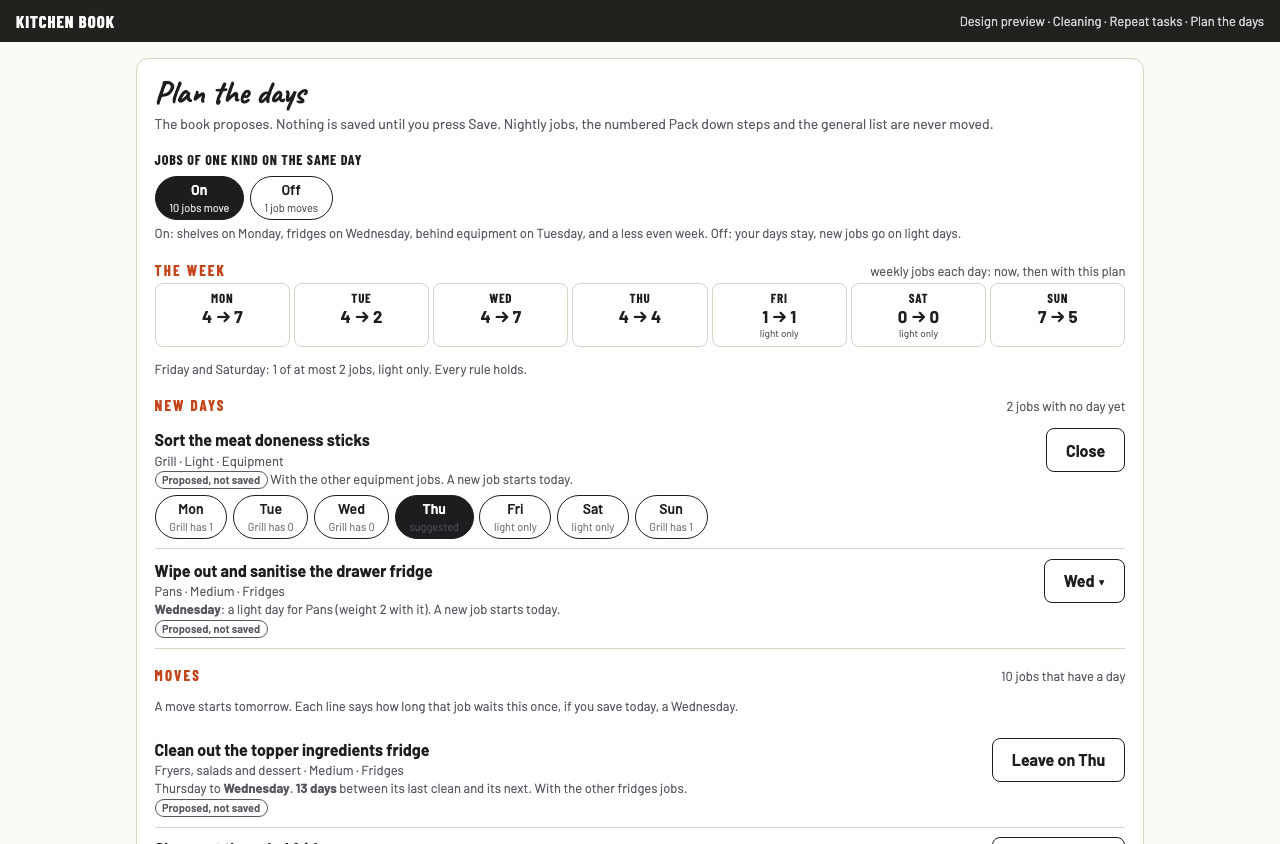
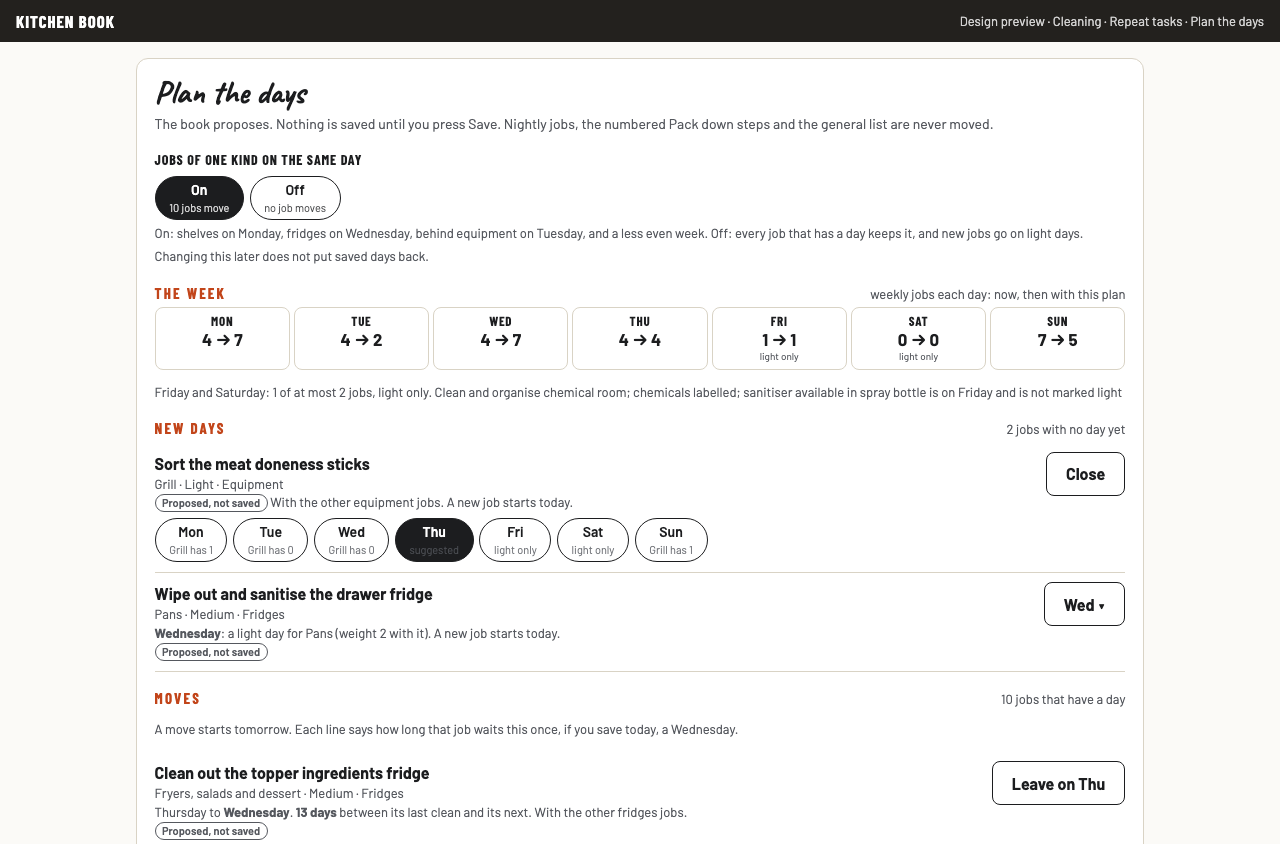
Cleaning tracking and planning the days: round 2, the mixes and the recommendation
Round 2: the list of changes first for planning (4 of 6), by job first for
tracking (5 of 6). The head chef made a missed job the section's problem.
Two mixes, a focused follow-up by three reviewers, the planner's fixes
(19 node checks) and the recommendation, in the brief.

diff --git a/docs/cleaning-tracking-options/previews/p-mix.html b/docs/cleaning-tracking-options/previews/p-mix.html
@@ -1,2 +1,2 @@
 <!doctype html>
-<html lang="en-AU"><head><meta charset="utf-8"><meta name="viewport" content="width=device-width,initial-scale=1"><title>The mix: plan the days</title><link rel="stylesheet" href="../../../css/app.css"><link rel="stylesheet" href="preview.css"></head><body class="pv"><div class="pv-bar"><span>Kitchen Book</span><small>Design preview · Cleaning · Repeat tasks · Plan the days</small></div><main class="pv-page"><section class="pv-card"><h1 class="pv-title">Plan the days</h1><p class="pv-sub">The book proposes. Nothing is saved until you press Save. Nightly jobs, the numbered Pack down steps and the general list are never moved.</p><div class="pv-field"><span class="label">Jobs of one kind on the same day</span><div class="pv-chips chips"><button class="chip" aria-pressed="true">On<small>10 jobs move</small></button><button class="chip" aria-pressed="false">Off<small>1 job moves</small></button></div><span class="hint">On: shelves on Monday, fridges on Wednesday, behind equipment on Tuesday, and a less even week. Off: your days stay, new jobs go on light days.</span></div><h2 class="pv-h">The week <span>weekly jobs each day: now, then with this plan</span></h2><div class="pv-strip"><div><b>Mon</b><span>4 → 7</span></div><div><b>Tue</b><span>4 → 2</span></div><div><b>Wed</b><span>4 → 7</span></div><div><b>Thu</b><span>4 → 4</span></div><div><b>Fri</b><span>1 → 1</span><small>light only</small></div><div><b>Sat</b><span>0 → 0</span><small>light only</small></div><div><b>Sun</b><span>7 → 5</span></div></div><p class="pv-note">Friday and Saturday: 1 of at most 2 jobs, light only. Every rule holds.</p><h2 class="pv-h">New days <span>2 jobs with no day yet</span></h2><div class="pv-row"><div><b>Sort the meat doneness sticks</b><small>Grill · Light · Equipment</small><small><span class="pv-tag">Proposed, not saved</span> With the other equipment jobs. A new job starts today.</small><div class="pv-chips chips"><button class="chip" aria-pressed="false">Mon<small>Grill has 1</small></button><button class="chip" aria-pressed="false">Tue<small>Grill has 0</small></button><button class="chip" aria-pressed="false">Wed<small>Grill has 0</small></button><button class="chip" aria-pressed="true">Thu<small>suggested</small></button><button class="chip" aria-pressed="false">Fri<small>light only</small></button><button class="chip" aria-pressed="false">Sat<small>light only</small></button><button class="chip" aria-pressed="false">Sun<small>Grill has 1</small></button></div></div><div><button class="btn">Close</button></div></div><div class="pv-row"><div><b>Wipe out and sanitise the drawer fridge</b><small>Pans · Medium · Fridges</small><small><b>Wednesday</b>: a light day for Pans (weight 2 with it). A new job starts today.</small><small><span class="pv-tag">Proposed, not saved</span></small></div><div><button class="btn">Wed ▾</button></div></div><h2 class="pv-h">Moves <span>10 jobs that have a day</span></h2><p class="pv-note">A move starts tomorrow. Each line says how long that job waits this once, if you save today, a Wednesday.</p><div class="pv-row"><div><b>Clean out the topper ingredients fridge</b><small>Fryers, salads and dessert · Medium · Fridges</small><small>Thursday to <b>Wednesday</b>. <b>13 days</b> between its last clean and its next. With the other fridges jobs.</small><small><span class="pv-tag">Proposed, not saved</span></small></div><div><button class="btn">Leave on Thu</button></div></div><div class="pv-row"><div><b>Clean out the salad fridge</b><small>Fryers, salads and dessert · Medium · Fridges</small><small>Tuesday to <b>Wednesday</b>. <b>8 days</b> between its last clean and its next. With the other fridges jobs.</small><small><span class="pv-tag">Proposed, not saved</span></small></div><div><button class="btn">Leave on Tue</button></div></div><div class="pv-row"><div><b>Clean the shelves under the microwave</b><small>Fryers, salads and dessert · Light · Shelves</small><small>Thursday to <b>Monday</b>. <b>11 days</b> between its last clean and its next. With the other shelves jobs.</small><small><span class="pv-tag">Proposed, not saved</span></small></div><div><button class="btn">Leave on Thu</button></div></div><p class="pv-note">and 7 more moves, each with its days and its wait.</p><h2 class="pv-h">Monthly, first dates <span>3 jobs every 4 weeks</span></h2><div class="pv-row"><div><b>Clean behind the grill</b><small>Grill · Heavy · Behind equipment</small><small><b>Tuesday 8 December</b>, then every 4 weeks. With the other behind equipment jobs.</small><small><span class="pv-tag">Proposed, not saved</span></small></div><div><button class="btn">Pick a date</button></div></div><div class="pv-row"><div><b>Clean behind the stove</b><small>Pans · Heavy · Behind equipment</small><small><b>Monday 14 December</b>, then every 4 weeks. Not on the behind equipment day: Pans already has a heavy job then.</small><small><span class="pv-tag">Proposed, not saved</span></small></div><div><button class="btn">Pick a date</button></div></div><div class="pv-row"><div><b>Clean behind the deep fryers</b><small>Shared kitchen · Heavy · Behind equipment</small><small><b>Tuesday 1 December</b>, then every 4 weeks. A day the rules allow.</small><small><span class="pv-tag">Proposed, not saved</span></small></div><div><button class="btn">Pick a date</button></div></div><details class="pv-fold"><summary>How the days are chosen</summary><ol><li>Friday and Saturday take light jobs only, and at most a tenth of the week. A job with no weight is never light.</li><li>No section gets two heavy jobs on one day.</li><li>With the switch on, jobs of one kind share a day, unless that makes a section's day too heavy.</li><li>Each section's week is as even as it can be.</li><li>A job keeps its day unless a rule above moves it.</li></ol></details><div class="pv-save"><span class="hint">0 of 15 saved. Saved 5 at a time: if the signal drops, this line says how many are in and what is left.</span><button class="btn dark">Save 15 changes</button></div></section></main></body></html>
+<html lang="en-AU"><head><meta charset="utf-8"><meta name="viewport" content="width=device-width,initial-scale=1"><title>The mix: plan the days</title><link rel="stylesheet" href="../../../css/app.css"><link rel="stylesheet" href="preview.css"></head><body class="pv"><div class="pv-bar"><span>Kitchen Book</span><small>Design preview · Cleaning · Repeat tasks · Plan the days</small></div><main class="pv-page"><section class="pv-card"><h1 class="pv-title">Plan the days</h1><p class="pv-sub">The book proposes. Nothing is saved until you press Save. Nightly jobs, the numbered Pack down steps and the general list are never moved.</p><div class="pv-field"><span class="label">Jobs of one kind on the same day</span><div class="pv-chips chips"><button class="chip" aria-pressed="true">On<small>10 jobs move</small></button><button class="chip" aria-pressed="false">Off<small>no job moves</small></button></div><span class="hint">On: shelves on Monday, fridges on Wednesday, behind equipment on Tuesday, and a less even week. Off: every job that has a day keeps it, and new jobs go on light days. Changing this later does not put saved days back.</span></div><h2 class="pv-h">The week <span>weekly jobs each day: now, then with this plan</span></h2><div class="pv-strip"><div><b>Mon</b><span>4 → 7</span></div><div><b>Tue</b><span>4 → 2</span></div><div><b>Wed</b><span>4 → 7</span></div><div><b>Thu</b><span>4 → 4</span></div><div><b>Fri</b><span>1 → 1</span><small>light only</small></div><div><b>Sat</b><span>0 → 0</span><small>light only</small></div><div><b>Sun</b><span>7 → 5</span></div></div><p class="pv-note">Friday and Saturday: 1 of at most 2 jobs, light only. Clean and organise chemical room; chemicals labelled; sanitiser available in spray bottle is on Friday and is not marked light</p><h2 class="pv-h">New days <span>2 jobs with no day yet</span></h2><div class="pv-row"><div><b>Sort the meat doneness sticks</b><small>Grill · Light · Equipment</small><small><span class="pv-tag">Proposed, not saved</span> With the other equipment jobs. A new job starts today.</small><div class="pv-chips chips"><button class="chip" aria-pressed="false">Mon<small>Grill has 1</small></button><button class="chip" aria-pressed="false">Tue<small>Grill has 0</small></button><button class="chip" aria-pressed="false">Wed<small>Grill has 0</small></button><button class="chip" aria-pressed="true">Thu<small>suggested</small></button><button class="chip" aria-pressed="false">Fri<small>light only</small></button><button class="chip" aria-pressed="false">Sat<small>light only</small></button><button class="chip" aria-pressed="false">Sun<small>Grill has 1</small></button></div></div><div><button class="btn">Close</button></div></div><div class="pv-row"><div><b>Wipe out and sanitise the drawer fridge</b><small>Pans · Medium · Fridges</small><small><b>Wednesday</b>: a light day for Pans (weight 2 with it). A new job starts today.</small><small><span class="pv-tag">Proposed, not saved</span></small></div><div><button class="btn">Wed ▾</button></div></div><h2 class="pv-h">Moves <span>10 jobs that have a day</span></h2><p class="pv-note">A move starts tomorrow. Each line says how long that job waits this once, if you save today, a Wednesday.</p><div class="pv-row"><div><b>Clean out the topper ingredients fridge</b><small>Fryers, salads and dessert · Medium · Fridges</small><small>Thursday to <b>Wednesday</b>. <b>13 days</b> between its last clean and its next. With the other fridges jobs.</small><small><span class="pv-tag">Proposed, not saved</span></small></div><div><button class="btn">Leave on Thu</button></div></div><div class="pv-row"><div><b>Clean out the salad fridge</b><small>Fryers, salads and dessert · Medium · Fridges</small><small>Tuesday to <b>Wednesday</b>. <b>8 days</b> between its last clean and its next. With the other fridges jobs.</small><small><span class="pv-tag">Proposed, not saved</span></small></div><div><button class="btn">Leave on Tue</button></div></div><div class="pv-row"><div><b>Clean the shelves under the microwave</b><small>Fryers, salads and dessert · Light · Shelves</small><small>Thursday to <b>Monday</b>. <b>11 days</b> between its last clean and its next. With the other shelves jobs.</small><small><span class="pv-tag">Proposed, not saved</span></small></div><div><button class="btn">Leave on Thu</button></div></div><p class="pv-note">and 7 more moves, each with its days and its wait.</p><h2 class="pv-h">Monthly, first dates <span>3 jobs every 4 weeks</span></h2><div class="pv-row"><div><b>Clean behind the grill</b><small>Grill · Heavy · Behind equipment</small><small><b>Tuesday 8 December</b>, then every 4 weeks. With the other behind equipment jobs.</small><small><span class="pv-tag">Proposed, not saved</span></small></div><div><button class="btn">Pick a date</button></div></div><div class="pv-row"><div><b>Clean behind the stove</b><small>Pans · Heavy · Behind equipment</small><small><b>Monday 14 December</b>, then every 4 weeks. Not on the behind equipment day: Pans already has a heavy job then.</small><small><span class="pv-tag">Proposed, not saved</span></small></div><div><button class="btn">Pick a date</button></div></div><div class="pv-row"><div><b>Clean behind the deep fryers</b><small>Shared kitchen · Heavy · Behind equipment</small><small><b>Tuesday 1 December</b>, then every 4 weeks. A day the rules allow.</small><small><span class="pv-tag">Proposed, not saved</span></small></div><div><button class="btn">Pick a date</button></div></div><details class="pv-fold"><summary>How the days are chosen</summary><ol><li>Friday and Saturday take light jobs only, and at most a tenth of the week. A job with no weight is never light.</li><li>No section gets two heavy jobs on one day.</li><li>With the switch on, jobs of one kind share a day, unless that makes a section's day too heavy.</li><li>Each section's week is as even as it can be.</li><li>A job keeps its day unless a rule above moves it.</li></ol></details><div class="pv-save"><span class="hint">0 of 15 saved. Saved 5 at a time: if the signal drops, this line says how many are in and what is left.</span><button class="btn dark">Save 15 changes</button></div></section></main></body></html>

diff --git a/docs/cleaning-tracking-options/previews/planner.js b/docs/cleaning-tracking-options/previews/planner.js
@@ -17,7 +17,8 @@
    4. The same kind of job in different sections goes on the same day, unless that would push a section past cap
       weight points on that day. Then the kind gives way, and the plan says so (gave).
    5. Each section's days are as even as they can be, then the kitchen's days.
-   6. A job that has a day keeps it unless a rule above moves it or its kind's day is elsewhere.
+   6. A job that has a day keeps it unless a rule above moves it or its kind's day is elsewhere. With same-kind days
+      off, a job that has a day always keeps it. Friday and Saturday are allowed for a light job, never preferred.
    A monthly job (every 28) gets one weekday by the same rules and a starting week, 1 to 4, so they do not all start
    in the same week. */
 (function (root) {
@@ -50,17 +51,20 @@
     var comes = jobs.filter(function (j) { return j.every === 28 || (!j.every && (j.days || []).length > 0 && j.days.length < 7) || (j.move && !(j.days || []).length); });
     var total = comes.reduce(function (n, j) { return n + (j.move ? j.per || 1 : j.days.length); }, 0), quietMax = Math.floor(total * share), quietUsed = 0;
     comes.filter(function (j) { return !j.move; }).forEach(function (j) { j.days.forEach(function (d) { put(j, d); if (quiet.indexOf(d) >= 0) quietUsed++; }); });
-    var todo = comes.filter(function (j) { return j.move; }).sort(function (a, b) { return cost(b) - cost(a) || (b.per || 1) - (a.per || 1) || String(a.kind).localeCompare(String(b.kind)) || String(a.id).localeCompare(String(b.id)); });
+    var dated = function (j) { return (j.days || []).length ? 0 : 1; };
+    var todo = comes.filter(function (j) { return j.move; }).sort(function (a, b) { return (together ? 0 : dated(a) - dated(b)) || cost(b) - cost(a) || (b.per || 1) - (a.per || 1) || String(a.kind).localeCompare(String(b.kind)) || String(a.id).localeCompare(String(b.id)); });
     var monthly = 0;
     todo.forEach(function (j) {
       var best = null, was = (j.days || []).slice().sort().join(','), kindGave = false, heavyGave = false, where = j.sec || 'the kitchen';
       sets(j.per || 1).forEach(function (set) {
         var q = set.filter(function (d) { return quiet.indexOf(d) >= 0; }).length;
         if (q && (j.w !== 1 || quietUsed + q > quietMax)) return;                                          // rules 1 and 2
-        if (j.w === 3 && j.sec && set.some(function (d) { return heavy[j.sec] && heavy[j.sec][d]; })) { if (j.kind && kinds[j.kind] && set.some(function (d) { return kinds[j.kind][d]; })) heavyGave = true; return; }   // rule 3
+        // a tenth is a limit, not a target: a job that has a day is never moved onto Friday or Saturday to even the week
+        if (was && set.some(function (d) { return quiet.indexOf(d) >= 0 && (j.days || []).indexOf(d) < 0; })) return;
+        if (j.w === 3 && j.sec && set.some(function (d) { return heavy[j.sec] && heavy[j.sec][d]; })) { if (together && j.kind && kinds[j.kind] && set.some(function (d) { return kinds[j.kind][d]; })) heavyGave = true; return; }   // rule 3
         var load = j.sec ? set.reduce(function (n, d) { return Math.max(n, ((sec[j.sec] || [])[d] || 0) + cost(j)); }, 0) : 0;
         var mates = together ? set.reduce(function (n, d) { return n + (j.kind && kinds[j.kind] ? kinds[j.kind][d] : 0); }, 0) : 0;
-        var over = load > cap, score = (over ? 0 : -1000 * mates) + (set.join(',') === was ? -300 : 0) + 100 * load + 10 * set.reduce(function (n, d) { return n + kitchen[d]; }, 0);
+        var over = load > cap, score = (over ? 0 : -1000 * mates) + (set.join(',') === was ? (together ? -300 : -100000) : 0) + 150 * q + 100 * load + 10 * set.reduce(function (n, d) { return n + kitchen[d]; }, 0);
         if (over && mates) kindGave = true;
         if (!best || score < best.score) best = { set: set, score: score, mates: mates, over: over, load: load };
       });
@@ -94,6 +98,8 @@
       });
     });
     if (q > Math.floor(total * share)) out.push('Friday and Saturday hold ' + q + ' jobs, more than a tenth of the week');
+    // a job already on Friday or Saturday that is not marked light is the chef's to look at: the planner never chose it
+    jobs.forEach(function (j) { if (!days[j.id] && !j.every && (j.days || []).length < 7 && (j.days || []).some(function (d) { return quiet.indexOf(d) >= 0; }) && j.w !== 1) out.push(j.text + ' is on ' + j.days.filter(function (d) { return quiet.indexOf(d) >= 0; }).map(function (d) { return NAMES[d]; }).join(' and ') + ' and is not marked light'); });
     Object.keys(sec).forEach(function (name) { sec[name].forEach(function (load, d) { if (load > cap && jobs.some(function (j) { return days[j.id] && j.sec === name && days[j.id].indexOf(d) >= 0; })) out.push(name + ' is at weight ' + load + ' on ' + NAMES[d] + ', over ' + cap); }); });
     return out;
   }

diff --git a/docs/cleaning-tracking-options/index.html b/docs/cleaning-tracking-options/index.html
@@ -33,7 +33,24 @@
 <main>
   <h1>Cleaning: tracking and planning the days</h1>
   <p class="lead">Six designs: three for planning which day each job falls on, three for tracking who did the cleaning and what was missed. Schematic previews, not the book. Nothing in the book has changed.</p>
-  <span class="tag">Not yet scored by the council.</span>
+  <span class="tag">Recommended: the two mixes below. Council: list of changes first for planning (4 of 6), by job first for tracking (5 of 6).</span>
+
+  <h3>The two mixes</h3>
+  <p class="lead">What the council's picks and your word on sections add up to. Three reviewers checked these and asked for changes that are not all drawn yet: each section's heaviest night, "due tonight" for a new job on today's day, and names one tap behind the flag.</p>
+  <div class="phones">
+    <figure>
+      <figcaption><h2>Plan the days</h2><p class="idea">A switch for same-kind days, the week as counts, then every change on its own line.</p>
+        <ul><li>On moves 10 of your 15 dated jobs and makes the week less even. Off moves none.</li><li>Every line says "Proposed, not saved", with the wait for each move.</li><li>One Save, 5 at a time.</li></ul></figcaption>
+      <img src="previews/p-mix-390.png" alt="The planning mix: a switch for jobs of one kind on the same day, a strip of the week with counts now and after, and lines marked Proposed, not saved.">
+      <a class="full" href="previews/p-mix-390-full.png">Whole page</a>
+    </figure>
+    <figure>
+      <figcaption><h2>Cleaning by section</h2><p class="idea">A missed job is the section's. Who was on at close is kept beside it.</p>
+        <ul><li>A flag in your Inbox the next morning.</li><li>One row per section, opening to what was missed and who did what.</li><li>Nobody has a total.</li></ul></figcaption>
+      <img src="previews/t-mix-390.png" alt="The tracking mix: a morning flag naming Hot larder and who was on at close, then one row per section for the last four weeks.">
+      <a class="full" href="previews/t-mix-390-full.png">Whole page</a>
+    </figure>
+  </div>
 
   <h3>Planning the days</h3>
   <p class="lead">Drawn from your real job list. The kinds (Shelves, Fridges, Behind equipment) and the weights (Light, Medium, Heavy) are examples I made up: you would set them. The planner gave your 15 dated jobs these days: 10 would move, 5 stay, and shelves land on Monday, fridges on Wednesday, behind-equipment jobs on Tuesday.</p>
@@ -98,7 +115,7 @@
   </div>
 
   <h3>How these were made</h3>
-  <p class="lead">Static pages with the book's own stylesheet, written by <code>previews/build.cjs</code>. The planning pages come from <code>previews/planner.js</code>, one function run on the book's built-in lists and checked with 12 node tests. Nothing here was tapped, saved or timed. Numbers: <code>previews/plan.json</code>, <code>previews/measurements.json</code>.</p>
+  <p class="lead">Static pages with the book's own stylesheet, written by <code>previews/build.cjs</code>. The planning pages come from <code>previews/planner.js</code>, one function run on the book's built-in lists and checked with 19 node tests. Nothing here was tapped, saved or timed. Numbers: <code>previews/plan.json</code>, <code>previews/measurements.json</code>.</p>
 </main>
 </body>
 </html>

diff --git a/docs/cleaning-tracking-options/previews/planner.test.js b/docs/cleaning-tracking-options/previews/planner.test.js
@@ -23,13 +23,17 @@ const months = jobs.filter(j => j.move && j.every === 28).map(j => r.week[j.id])
 ok(months.length === 3 && new Set(months).size === 3, 'the three monthly jobs start in different weeks (' + months + ')');
 ok(by('sc-hot-04').days.join() === r.days['sc-hot-04'].join() && by('sc-grill-01').days.join() === r.days['sc-grill-01'].join(), 'a job with no reason to move keeps its day');
 // leaving one line out of a proposal: the page checks the rest again and says what it breaks
-ok(P.check(jobs, r.days).length === 0, 'the whole proposal breaks none of its own rules (' + P.check(jobs, r.days).join('; ') + ')');
+const notes = P.check(jobs, r.days);
+ok(notes.length === 1 && /is on Friday and is not marked light/.test(notes[0]), 'the whole proposal breaks none of its own rules, and names the one job already on Friday that is not marked light (' + notes.join('; ') + ')');
 const without = Object.assign({}, r.days); delete without['sc-hot-02'];
 ok(P.check(jobs, without).some(m => /Hot larder is at weight/.test(m)), 'with one line left out, the check says which day is now too heavy (' + P.check(jobs, without).join('; ') + ')');
 // same kind on the same day is a choice: off, the week is spread by load alone
 const apart = P.plan(J.jobs(chosen), { together: false });
 const perDay = d => jobs.filter(j => !j.every && (j.move ? apart.days[j.id] : j.days.length < 7 ? j.days : []).includes(d)).length;
 ok(new Set(jobs.filter(j => j.move && j.kind === 'Shelves').map(j => apart.days[j.id][0])).size > 1, 'with same-kind days off, shelves jobs are not pulled onto one day');
-ok(P.check(jobs, apart.days).length === 0, 'the plan with same-kind days off also breaks no rule');
+ok(P.check(jobs, apart.days).length === 1, 'the plan with same-kind days off also breaks no rule');
+ok(jobs.filter(j => j.move && j.days.length && j.days.length < 7).every(j => apart.days[j.id].every(d => (d !== 5 && d !== 6) || j.days.includes(d))) && jobs.filter(j => j.move && j.days.length && j.days.length < 7).every(j => r.days[j.id].every(d => (d !== 5 && d !== 6) || j.days.includes(d))), 'a job that has a day is never moved onto Friday or Saturday');
+ok(jobs.filter(j => j.move).every(j => !/not on the/.test(apart.why[j.id])), 'with same-kind days off, no reason speaks of a kind\'s day');
+ok(jobs.filter(j => j.move && j.days.length && j.days.length < 7).every(j => j.days.join() === apart.days[j.id].join()), 'with same-kind days off, every job that has a day keeps it');
 console.log('with same-kind days: ' + [0, 1, 2, 3, 4, 5, 6].map(d => jobs.filter(j => !j.every && (j.move ? r.days[j.id] : j.days.length < 7 ? j.days : []).includes(d)).length).join(',') + '; without: ' + [0, 1, 2, 3, 4, 5, 6].map(perDay).join(',') + '; moved without: ' + jobs.filter(j => j.move && j.days.length && j.days.length < 7 && j.days.join() !== apart.days[j.id].join()).length);
 console.log('PASS planner: ' + n + ' checks');

diff --git a/docs/cleaning-tracking-options/brief.md b/docs/cleaning-tracking-options/brief.md
@@ -83,6 +83,191 @@ Flighty: real status from data the page already holds, and never stale status sh
 4. The button: counts on the day chips with no button, or a button that proposes days for new jobs only? And does he still want it to move jobs that already have a day, against all five reviewers?
 5. Should a missed weekly or monthly job stay due until it is done? (Carried from the sections brief.)
 
-## Round 2
+## The head chef's decisions after round 1 (26 November 2026)
 
-Not run. Both changes are visible, so each needs its designs once the head chef has answered questions 2 to 4.
+He read round 1 and set the scope himself. In his words:
+
+- "Cleaning schedule is not on, so we can start counting as soon as we have the cleaning on."
+- "I'd like to track instead who did, and who missed but in a fair way."
+- "No Friday or Saturday nights stay out of clear jobs, just don't get a heavy cleaning job, maybe let the chef creating the tasks set a ranking system for jobs from light time cost to heavy time cost in 3 steps and only allow light ones on Friday and Saturday and only like 10% of the whole week's tasks compared to Sunday to Wednesday tasks."
+- "I still want to be able to move other jobs that already have a day."
+- "And maybe even group similar tasks across sections to be on the same day."
+
+Three of these go past round 1's advice (people, moving dated jobs, Friday and Saturday open to light jobs). The weight in three steps and the same-kind day were not in round 1: they went straight to designs at his word.
+
+Then, while round 2 was being scored: "just make the section jobs a section problem, not the person's problem, but track in the background that if a person was on grill for example the night before to flag if not all tasks for that section have been done in the section." So no page by person; a missed job is its section's, with who was on kept in the background, and a flag the next morning.
+
+## Round 2: designs
+
+Packet: [round2-packet.md](round2-packet.md). Designs side by side: [index.html](index.html). Six fresh reviewers, each given the skill's text word for word and no leads, ranked two sets of three. All measurements are **Preview**: schematic static pages with the book's stylesheet, no app shell, nothing tapped, saved or timed.
+
+Pinned before drawing:
+
+- On the rules emulator, 2 and 5 moves in one save are allowed for the owner, the kitchen admin and a sous chef; 10 and 20 are refused. Moves save 5 at a time.
+- A change to a job starts exactly tomorrow by the rules; a new job starts today.
+- A job's fields are fixed in the rules, so a weight or a kind on the job needs a rules change and makes a revision; the other home is one small record read when the planner opens.
+- The planner behind the previews is one pure function, `previews/planner.js`, with 19 node checks, run on the book's own lists with example kinds and weights made up by the lead.
+
+### Planning the days
+
+- **P-A, in the job.** Today's form with a weight, a kind and day chips that say what the section has each day; a suggested day with its reason.
+- **P-B, the week as a board.** Every job that comes round under its day; proposals dashed; one Save.
+- **P-C, a list of changes.** One tap proposes; each line gives old day, new day, reason and the wait; Confirm.
+
+| | P-A | P-B | P-C |
+| --- | --- | --- | --- |
+| Unit | One job | The week | The change |
+| Whole week visible | No | Yes | No |
+| What a move does to this week | Not shown | Not shown | On each line |
+| Moving 10 jobs | 10 forms | One Save | One Confirm |
+| Page length at 390 px (Preview) | 1.0 screens | 2.7 | 3.3 |
+| Build size | 1 pull request | 2 to 3 | 2 to 3 |
+| New reads or rules | A rules change if weight and kind sit on the job | The same, or 1 read for a side record | The same |
+| Risk | Low | False totals, a second way to edit a job | A long list saved blind |
+
+| Reviewer | Ranking | Recommended |
+| --- | --- | --- |
+| Cook | P-C, P-A, P-B | P-C's list, P-A's fields, P-B as a before-and-after strip |
+| Head chef | P-B, P-A, P-C | A blend on P-B's page, run before Cleaning is switched on |
+| Skeptic | P-A, P-C, P-B | P-A with P-C's wait line; bulk moves held until real weights and kinds exist |
+| New starter | P-C, P-A, P-B | P-C with P-A's fields and "Proposed, not saved" on each line |
+| Keeper | P-C, P-A, P-B | P-C with P-A's fields and B's limit as one line |
+| Screen designer | P-C, P-A, P-B | A day strip of counts, P-C's lines below, a line opens P-A's chips |
+
+P-C first: 4 of 6. P-B last: 4 of 6. Structurally different: yes, 6 of 6.
+
+### Tracking
+
+- **T-A, by job.** The missed jobs that come round, with dates and who was on.
+- **T-B, by section.** Sections against weeks, done out of due; a week opens.
+- **T-C, by person.** A row per person: days on, jobs ticked, and what was missed on their days.
+
+| Reviewer | Ranking | Recommended |
+| --- | --- | --- |
+| Cook | T-A, T-B, T-C | T-A, each job opening to who did, missed by shift, or Unable |
+| Head chef | T-A, T-C, T-B | T-A's jobs opening to every date, T-B's done by and time; the nightly count first, the page after four weeks |
+| Skeptic | T-A, T-B, T-C | T-A with done jobs named beside each person |
+| New starter | T-C, T-A, T-B | T-C blended, the big number removed |
+| Keeper | T-A, T-B, T-C | T-A with who did each job that came round |
+| Screen designer | T-A, T-C, T-B | T-A as one list with a Done fold naming who and when |
+
+T-A first: 5 of 6. Every reviewer rejected T-C's tick total as a score. The head chef then ruled out a page by person, which removes the new starter's first choice.
+
+### The mix (A + B + C), for each set
+
+| Part | Take or reject | Principle | Why |
+| --- | --- | --- | --- |
+| P-C: old day, new day, reason, wait | Take, 6 of 6 | Flighty, Airbnb | The only place a move's cost is shown |
+| P-C: the rules box on top | Reject, 5 of 6 | Things 3 | It filled the first screen; folded at the bottom |
+| P-C: a tick meaning "move this" | Reject (new starter, designer) | Headspace | A tick means done in Cleaning; a button with words |
+| P-A: weight and kind in the job's form | Take, 6 of 6 | Todoist | The one place they are set |
+| P-A: day chips with what the section has | Take, 5 of 6 | Todoist | A known default, visible and editable |
+| P-A: as the mover | Reject, 5 of 6 | | Ten forms for ten moves |
+| P-B: each day's count, before and after | Take, 5 of 6 | Flighty, Linear | It shows the week bunching or evening out |
+| P-B: the board and one Save for all | Reject, 5 of 6 | Linear | A second way to edit a job; false totals in the preview |
+| T-A: the job with its dates and who was on | Take, 6 of 6 | Airbnb | Job, date, section and names together |
+| T-B: "done by, with the time" on an opened row | Take, 6 of 6 | Flighty | It shows the work that was done, not only the misses |
+| T-B: the table | Reject, 6 of 6 | Linear | Words break at 390 px; no hand-built long tables |
+| T-C: the tick total | Reject, 6 of 6 | Duolingo | A score, whatever the words say |
+| T-C: "Not enough days yet" | Take in principle | | Not needed once nobody has a total |
+
+An all-three blend with every page kept was rejected for both sets (three surfaces for one job). The part-blends are P-mix and T-mix.
+
+### The two mixes (lead's synthesis, with a focused follow-up)
+
+Packet: [round2-followup.md](round2-followup.md). Previews: `previews/p-mix-390-full.png`, `previews/t-mix-390-full.png`.
+
+**P-mix, Plan the days.** One page in Repeat tasks: a switch for same-kind days that says how many jobs each choice moves; a strip of the seven days with weekly jobs now and with the plan; lines for new days, moves and monthly first dates, each "Proposed, not saved" with a button in words; one Save, 5 at a time, with "0 of 15 saved". Weight and kind are set in the job's form. Preview, 390 px: 2.8 screens with three of the ten moves drawn; the cook's sum with all ten is about 4.4.
+
+**T-mix, Cleaning by section.** No person has a total. A flag in the admin Inbox the next morning naming the section, the job and who was on at close; a row per section for the last 4 weeks, opening to each missed job with its dates and who was on, and each done job with who did it and when; Unable to complete apart and outside the totals; Shared kitchen counted with no names. Preview, 390 px: 1.4 screens.
+
+Follow-up (the same three reviewers, continued with their context):
+
+| Reviewer | P-mix | T-mix |
+| --- | --- | --- |
+| Skeptic | Build the mix, changed: Off as the default, no dated job moved onto Friday or Saturday, every wait visible | Build the mix: Reports rows first, the Inbox flag only after the midnight cut-off and "which wins, plan or pick" are settled |
+| Keeper | Build the mix, with the switch stored, per-line save states and a re-plan when the day changes | Build the mix, but hold the Inbox flag until the midnight question is answered, or word it "not ticked by midnight" |
+| Cook | Change the mix, then build: a new job whose day is today says "Due tonight" and stays out unless the chef puts it in; each section's heaviest night, now and after; fix the untrue lines | Change the mix, then build: names one tap behind the flag, as he said "in the background"; say which jobs count; settle midnight and Unable for typed jobs before switching on |
+
+Faults the follow-up found in the planner, fixed in `planner.js` with a node check each: with same-kind days off a dated job (Clean the drawers) still moved, onto Saturday; now every dated job keeps its day when the switch is off, a dated job is never moved onto Friday or Saturday, and a quiet day is allowed for a light job but never preferred. The rule check now names a job already on Friday that is not marked light. With the switch on the plan still moves 10 of 15 dated jobs and the week goes from 7,4,4,4,4,1,0 to 5,7,2,7,4,1,0 (Sunday to Saturday). With it off, no dated job moves and the week is 7,5,5,4,4,1,0.
+
+Faults found in the mix previews and not redrawn: no section's heaviest night before and after (Hot larder keeps a 5-point night, Fryers goes from 3 to 4, twice); numbers spill from the strip at 390 px; "suggested" is hard to read on the pressed chip; names sit on the flag, not behind it; the Grill row says 6 done and lists three.
+
+### Break-it findings (round 2 and the follow-up)
+
+| Scenario | Expected | Observed or hypothesis | Evidence | Smallest repair or check | Disposition |
+| --- | --- | --- | --- | --- | --- |
+| Same-kind days on the book's own list | A more even week | Less even: Monday and Wednesday 7, Tuesday 2 | Checked in `planner.js` by four reviewers and the lead, example weights | A visible switch with both results | In P-mix |
+| One line left out of a proposal | The rules still hold | Hot larder Wednesday at weight 7, over 5, with nothing said | Checked in `planner.js` | `check()` runs on every change and names the rule | Fixed in the engine; the page state is Not evidenced |
+| The switch flipped after a save | The days go back | 3 or 4 more jobs move, each with another wait | Checked in `planner.js` | Store the choice; say "this does not put days back"; Save names how many saved jobs move again | Words in P-mix; storing it is to design |
+| 15 changes saved in steps of 5 across midnight, or with the signal lost | One start day, and the page says where it stopped | Hypothesis: steps land on two days, or are refused; the waits printed are stale | Risk / Not evidenced | A rules-emulator test either side of midnight; a client test with a refused second step; re-plan when the day changes | Before ready |
+| A new job whose proposed day is today | The chef knows it is due tonight | A new job starts today, and Cleaning has no listener, so an open page stays quiet until Refresh | Source read | "Due tonight on Pans", left out unless the chef puts it in | To design |
+| A cook's "Every Tuesday" becomes Wednesday | The cook is told | Nothing tells the cook | Risk / Not evidenced | Open: what the staff row says in the week a job moved | Open |
+| A job already on Friday with no weight | Counted against "light only" or flagged | Shown under "light jobs only" as if it passed | Checked in `planner.js` | `check()` names it for the chef | Fixed in the engine |
+| A close finished after midnight | The job counts as done | A tick is refused once the date turns, so the flag names the section and its closers | Risk / Not evidenced (closing time unknown) | Ask the head chef; a fixture with a tick dated the next day; one cut-off for "missed" and "on at close" | Open with the head chef; holds the Inbox flag |
+| The plan says Grill, the cook's own pick says Pans; or a cook sent home early | One stated rule | Hypothesis: named either way; the plan keeps no move times | Risk / Not evidenced (source read) | Decide which wins and print it; a fixture where they differ | Before the flag |
+| The 03:00 count did not run, or nobody set a plan | "Count not ready", "nobody on the plan" | Hypothesis: an old night shown as last night, or a false all clear | Risk / Not evidenced | Fixtures with a missing and a stale row; the flag carries its date | Before ready |
+| A typed job that could not be done | Marked Unable with a reason | A typed job has no Unable: it is tick or flag | Source read | Give typed jobs Unable, or say so | Before the flag |
+| A job is moved or renamed | One history | Tracking by document id or by name splits it | Risk / Not evidenced | Key by the job's root id; a `cleanDay()` fixture across a move | Needs the nightly count changed |
+| A past day's plan is corrected later | The record follows | A day is counted once at 03:00 and carried | Source read | Decide whether a counted day can be counted again | Open |
+| "Not all tasks for that section" | The flag he meant | The mix flags weekly and monthly jobs only; with nightly Pack down the Inbox would flag most mornings | Not evidenced | Ask him | Open with the head chef |
+
+### Contract fit (round 2)
+
+| Check | P-mix | T-mix |
+| --- | --- | --- |
+| Service rules | Works: chef setup, no service page gains a control | Works: admin pages only |
+| "Never guess a day" | Proposed change, asked for by the head chef; nothing saves unconfirmed | Not relevant |
+| Records "as kept, never judged" | Not relevant | Proposed change: "left 1 job" judges. His call; the head chef reviewer would keep it out of Records and in Reports |
+| State words without colour | Works for Proposed; Not sent, Saved and Refused per line are Not evidenced | Missed in words works; Unable has two names in the book today (Needs work) |
+| Surface and look | Not evidenced: schematic pages, no steel header or Chef's Desk frame | The same |
+| Contrast | Sampled by the screen designer on the six previews: lowest text 5.05:1. Focus, Extra large text: Not evidenced | The same |
+| Who can read it | Chefs, as Repeat tasks today | Admin only as the rules stand; sous chefs need a rules change |
+
+Before ready, on the implemented app at 390, 768 and 1280 px: every save state, a refused and a held step, a lock with a proposal on screen, the day changing under a proposal, the staff Cleaning page after a saved plan, "Count not ready", an empty and a failed read, and the rules emulator proving staff and sous chefs cannot read the names.
+
+### Reference fit (round 2)
+
+| Principle | P-mix | T-mix |
+| --- | --- | --- |
+| Flighty: real dates, honest status | Works: each move's wait and each monthly date are printed | Works: the flag carries its date; Needs work until "Count not ready" is drawn |
+| Todoist: a known default, visible and editable | Works: suggested day on the chips | Not relevant |
+| Airbnb: time, place, state together | Works on a line | Works on a row: job, date, section, who was on |
+| Things 3: occasional detail tucked away | Works: the rules are folded | Works for the counting rules; Needs work: names belong one tap behind the flag |
+| Headspace: one name per thing | Needs work: "Kind of job" beside today's "Area or equipment" | Needs work: Unable to complete against Records' "Not possible" |
+| Duolingo: progress shows real work, no points | Not relevant | Works: no totals per person |
+| Linear: one frame, no second way to edit | Works: the strip never edits | Works: rows, no table |
+
+## Recommendation
+
+**Recommend both mixes, built in this order, with the morning flag held until the head chef answers the midnight question.**
+
+1. **The nightly count, now.** Keep each missed and done job that comes round by its root id, with its section and who did it, leave Unable out of the totals, record the first night Cleaning is on, and bump `CLEAN_V`. It is cheapest before Cleaning is switched on, and nothing can be shown until it has run.
+2. **Weight and kind in the job's form, then Plan the days (P-mix)** with same-kind days as a switch, each section's heaviest night shown, and a job due tonight said plainly. It carries all of his scope (weights, Friday and Saturday light only, moving dated jobs, same-kind days) and shows what each choice does to the week before anything is saved.
+3. **Cleaning by section in Reports (T-mix), then the Inbox flag** with names one tap behind it.
+
+Why these beat the originals: P-C alone hid the week and could break its own rules on one untick; P-B alone hid what a move costs; T-A alone showed only blame. The mixes keep each design's strongest part and drop what five or six reviewers rejected. In the follow-up all three reviewers said build the mix, each with changes; none preferred an original design.
+
+Main downside: Plan the days has the most states of any option to build and test, for a page used at setup and now and then; and tracking shows nothing until the count has run for a few weeks.
+
+Not hidden by the ranking:
+
+- His two wishes pull against each other on his own list. Same-kind days cost 10 moves and a less even week. The switch makes that his choice each time; which way it starts is his to say.
+- He named Sunday to Wednesday for heavier work. The planner also uses Thursday.
+- A moved job has one uneven week, up to 13 days between cleans in the example.
+- A missed weekly job is not due again until its next day, so a flag reports a miss and does not get it cleaned.
+- The skeptic would hold bulk moves until real weights and kinds exist, and the head chef reviewer would build the tracking page only after four weeks of counts. Step 1 does not conflict with either.
+- The mixes are a lead synthesis. Three reviewers checked them and asked for the changes above, which are not all redrawn; the other three have not seen them.
+
+## Open with the head chef
+
+1. Does a close ever finish after midnight? It decides whether the morning flag can be trusted.
+2. "Not all tasks for that section": weekly and monthly jobs only, or nightly Pack down too?
+3. Same-kind days: on or off to start with?
+4. Is Thursday a day for heavy jobs?
+5. When the plan and a cook's own pick differ, which is "on that section"?
+6. The flag and the rows for the admin only, or for sous chefs too (a rules change)?
+
+## Chosen
+
+Not chosen yet. The head chef decides.
